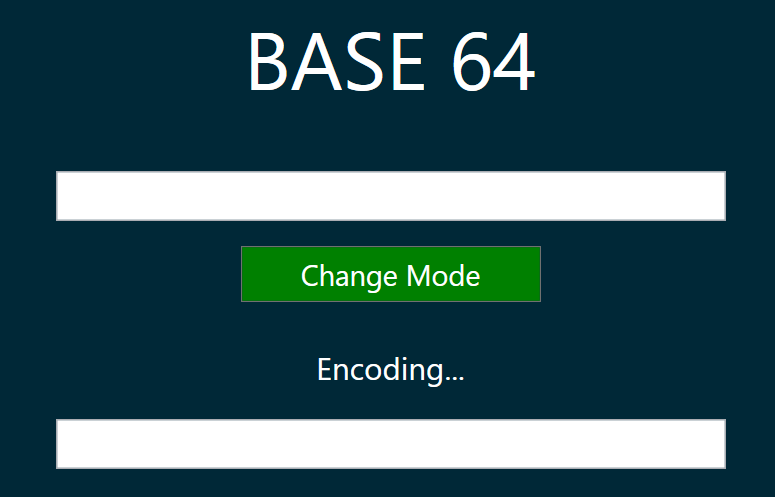
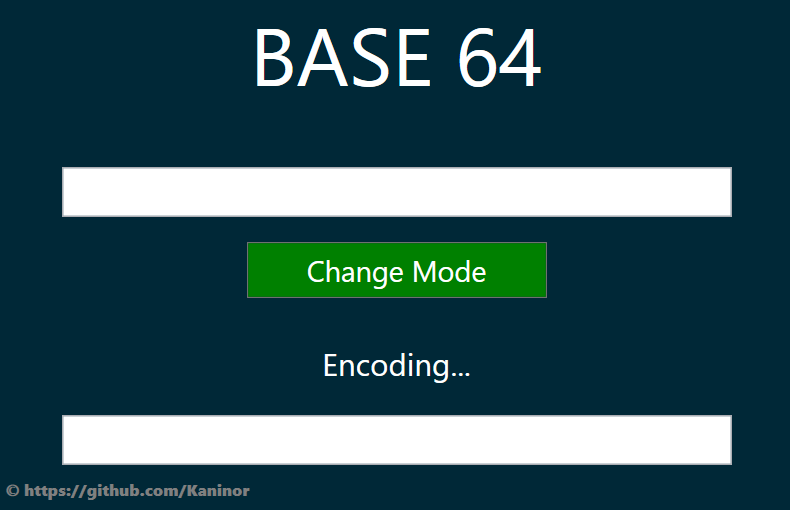
adding a footer in app

diff --git a/base64/MainWindow.xaml b/base64/MainWindow.xaml
@@ -9,7 +9,7 @@
         MinWidth="650"
         MaxHeight="500"
         MaxWidth="700"
-        Title="MainWindow" Height="450" Width="650" ResizeMode="CanMinimize">
+        Title="MainWindow" Height="455" Width="650" ResizeMode="CanMinimize">
     <Grid Background="#002837" KeyDown="Window_KeyDown">
         <Grid.RowDefinitions>
             <RowDefinition Height="100"/>
@@ -21,7 +21,8 @@
             <TextBox TextChanged="input_txt_TextChanged" Name="input_txt" Padding="6 0 0 0" Margin="50 20 50 0" Height="40" FontSize="28"></TextBox>
             <Button Name="change_mode" Click="change_mode_Click" Margin="10 20 10 10" Width="240" Height="45" Background="Green" Foreground="White" FontSize="23" Cursor="Hand">Change Mode</Button>
             <Label Name="mode" Foreground="White" HorizontalAlignment="Center" FontSize="25" Margin="0 20 0 0">Encoding...</Label>
-            <TextBox Name="output_txt" IsReadOnly="True" Padding="6 0 0 0" Margin="50 20 50 0" Height="40" FontSize="28"></TextBox>
+            <TextBox Name="output_txt" IsReadOnly="True" Padding="7 0 0 0" Margin="50 20 50 0" Height="40" FontSize="28"></TextBox>
+            <Label Name="footer" MouseEnter="footer_MouseEnter" MouseLeave="footer_MouseLeave" Foreground="Gray" FontWeight="UltraBold" FontSize="13" Margin="0 6 0 0">Ⓒ https://github.com/Kaninor</Label>
         </StackPanel>
     </Grid>
 </Window>

diff --git a/base64/MainWindow.xaml.cs b/base64/MainWindow.xaml.cs
@@ -73,5 +73,15 @@ namespace base64
                break;
          }
       }
+
+      private void footer_MouseEnter(object sender, MouseEventArgs e)
+      {
+         footer.Foreground = Brushes.DarkGray;
+      }
+
+      private void footer_MouseLeave(object sender, MouseEventArgs e)
+      {
+         footer.Foreground = Brushes.Gray;
+      }
    }
 }
